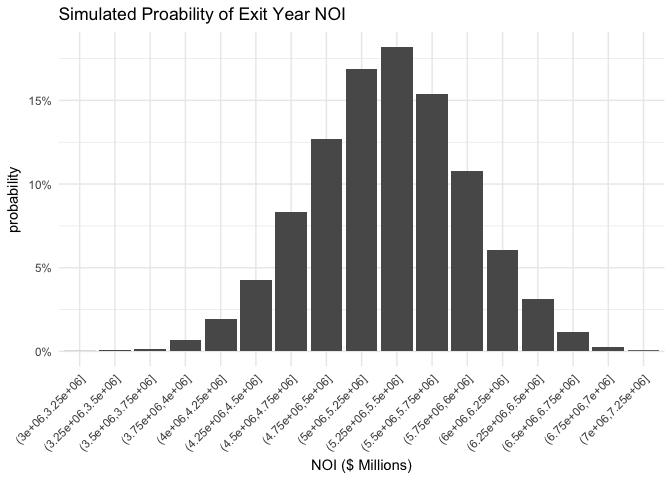
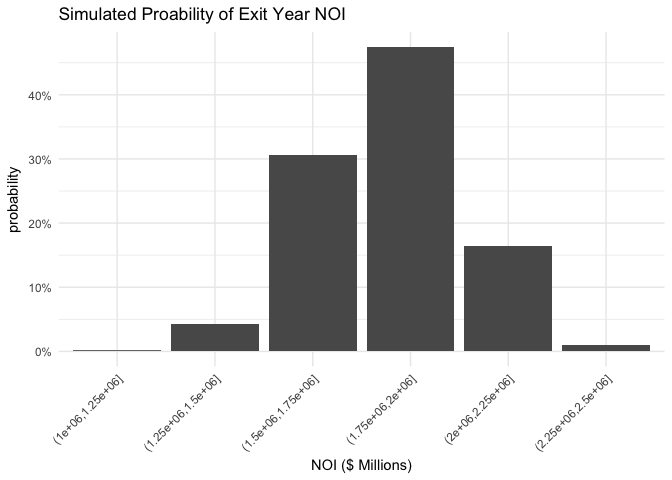
updating the README

diff --git a/README.md b/README.md
@@ -1,7 +1,15 @@
-ROI Value-at-Risk Modeling for Commerical Real Estate Investments
+Commerical Real Estate Investment Risk Analysis using Monte Carlo Simulation
 ================
 
-This is a basic model and simulation exercise demonstrating how forecasting and Monte Carlo simulation can be used to create Value-at-Risk sensitivity analyses. Here, we consider a hypothetical Manhattan Office building purchased in year T and sold in year T+10. By roughly estimating and then forecasting the Net Operating Income and the Exit Cap Rate, we are able to determine possible ROI and subsequently Value-at-Risk.
+Your typical Commercial Real Estate underwriting model (Office, Retail, Residential, Industrial) will include numerous assumptions about the value of the asset and the future movements of the market. For example: - The exit cap at year 10 will be `4.5%` - The cost of sale will be `4.0%` - You annual management fees will amount to `3%` of GPI - Rent growth will be `4%` per year and vacancy will remain at `8%` - etc.
+
+How these assumptions are produced is an alchemy of analysis, industry experience and "what looks right"-ness. Estimating assumptions is a difficult "art-more-than-science" endevour and can make or break an investment decision.
+
+One way to enhance the investment decision making process is to introduce the concept of *quantified uncertainty* to the equation. Borrowing from statistics, we can replace point estimate assumptions with mean-value estimates and confidence intervals. An `8%` vacancy rate becomes a mean of `8%` with a standard-deviation of `0.12` and a `95% confidencec interval` of `7.88%` to `8.24%`, for example.
+
+What this allows us to do is generate ranges of probable outcomes for many assumptions. We can then simulate many potential future states, based on combinations of assumption probabilities, and produce likelihoods for things like exit caps, sale price, IRR, ROI and more. We're also able to answer the question: How likely am I to make money on this investment?
+
+We are going to combine univariate forecasts of some top-level assumptions with Monte Carlo simulation to generate a range of probable IRR's for a hypothetical Manhattan Office investment.
 
 ``` r
 rm(list=ls())
@@ -23,6 +31,8 @@ set.seed(608)
 User Inputs
 ===========
 
+Let us define our hypothetical investment as an Office Building purchased for `$31.5M` in year T with the intent of selling the building at year T+10. The building currently generates `$1.2M` in operating income. We will also set our number of simulations to 10,000.
+
 ``` r
 # a fictitious purchase price
 purchase_price <- 31500000
@@ -31,11 +41,13 @@ purchase_price <- 31500000
 year_hold <- 10
 
 # current year NOI
-current_NOI <- 3500000
+current_NOI <- 1200000
 
 # input the number simulations to run
 n_sims <- 10000
 ```
+
+Our hypothetical purchase cap rate is 3.81%.
 
 Exit Caps
 =========
@@ -320,8 +332,8 @@ sale_price_sim <- exit_year_noi_sim/exit_caps_sim
 summary(sale_price_sim)
 ```
 
-    ##      Min.   1st Qu.    Median      Mean   3rd Qu.      Max. 
-    ##  60421737  98652874 110638348 112795987 124251143 244027680
+    ##     Min.  1st Qu.   Median     Mean  3rd Qu.     Max. 
+    ## 20716024 33823843 37933148 38672910 42600392 83666633
 
 ``` r
 sale_price_sim %>% 
